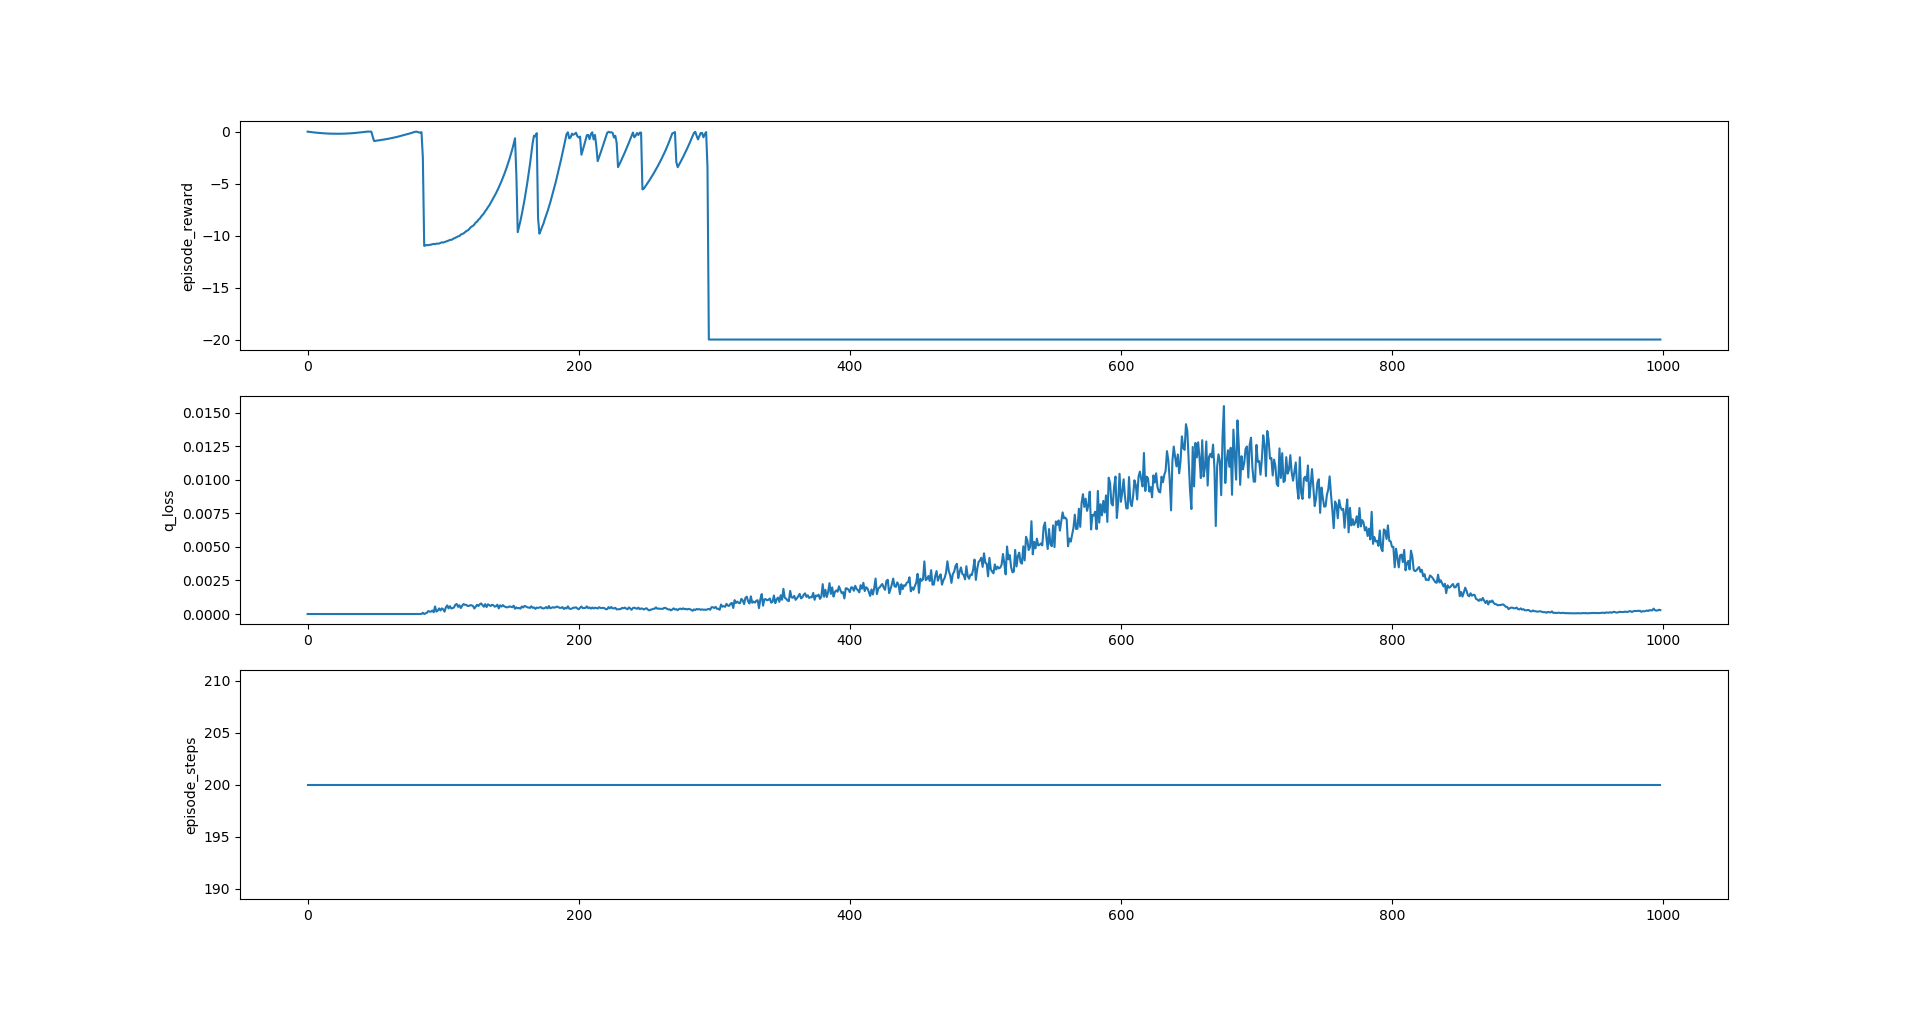
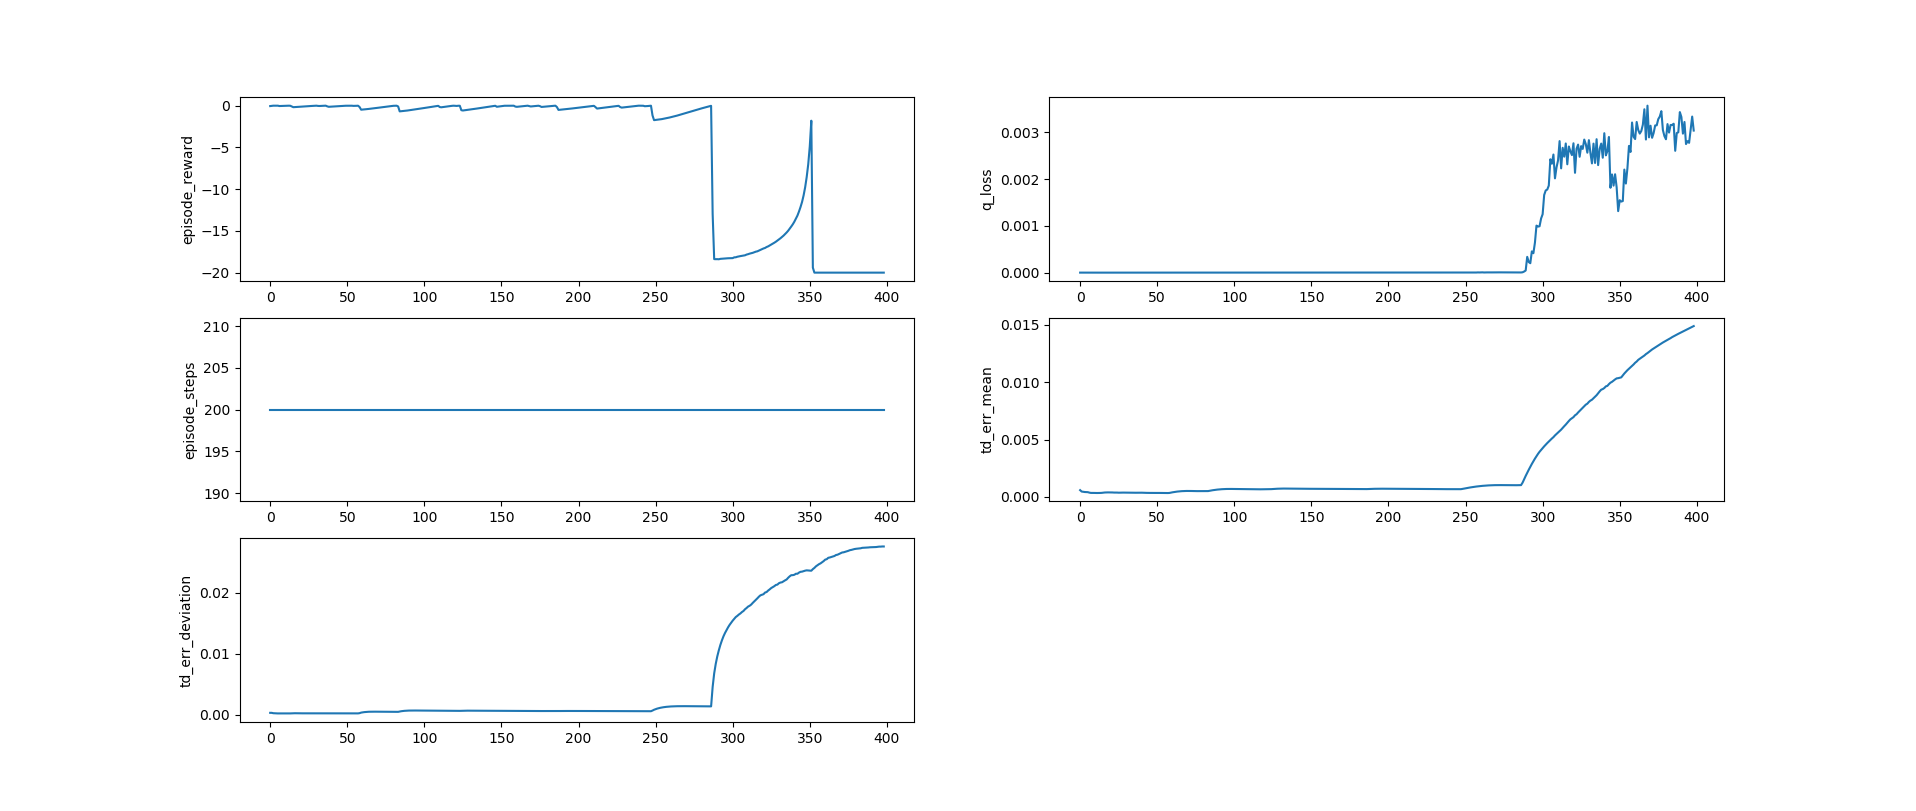
Added visualization of temporal difference error in the ReplayBuffer

diff --git a/agents/agent.py b/agents/agent.py
@@ -3,7 +3,7 @@ import numpy as np
 
 from agents.q_network import QNetwork
 from agents.policy_gradient import Policy
-from agents.replay_buffer import ReplayBuffer
+from agents.replay_buffer import ReplayBuffer, Experience
 
 class Agent():
 
@@ -18,9 +18,9 @@ class Agent():
         self.gamma = 0.99 # reward discount rate
 
         # Replay memory
-        self.buffer_size = 100000
+        buffer_size = 100000
         self.batch_size = 64
-        self.memory = ReplayBuffer(self.buffer_size, self.batch_size)
+        self.memory = ReplayBuffer(buffer_size)
 
         self.sess.run(tf.global_variables_initializer())
 
@@ -30,12 +30,12 @@ class Agent():
         return state
 
     def step(self, action, reward, next_state, done):
-        # save experience
-        self.memory.add(self.last_state, action, reward, next_state, done)
+        # Save experience
+        self._save_experience(self.last_state, action, reward, next_state, done)
 
         # Learn, if enough samples are available in memory
         if len(self.memory) > self.batch_size:
-            experiences = self.memory.sample()
+            experiences = self.memory.sample(self.batch_size)
             self._learn_q(experiences)
             self._learn_policy(self.last_state)
 
@@ -70,4 +70,18 @@ class Agent():
 
         # Compute Q targets for current states and train critic model (local)
         Q_targets = rewards + self.gamma * Q_targets_next * (1 - dones)
-        self.q_network.learn(states, actions, Q_targets)
+        td_errs = self.q_network.learn(states, actions, Q_targets)
+
+        self.memory.scrape_stats(self.stats)
+
+    def _save_experience(self, state, action, reward, next_state, done):
+        """Adds experience into ReplayBuffer. As a side effect, also learns q network on this sample."""
+        # Get predicted next-state actions and Q values
+        actions_next = self.actor.act([next_state])
+        Q_target_next = self.q_network.get_q([next_state], actions_next)[0]
+
+        # Compute Q targets for current states and train critic model (local)
+        Q_target = reward + self.gamma * Q_target_next * (1 - done)
+        td_err = self.q_network.learn([state], [action], [Q_target])[0]
+
+        self.memory.add(Experience(state, action, reward, next_state, done), td_err)

diff --git a/agents/replay_buffer.py b/agents/replay_buffer.py
@@ -1,31 +1,44 @@
-import random
-
-from collections import deque, namedtuple
+import numpy as np
+from collections import namedtuple
 
 Experience = namedtuple("Experience", field_names=["state", "action", "reward", "next_state", "done"])
 
 class ReplayBuffer:
     """Fixed-size buffer to store experience tuples."""
 
-    def __init__(self, buffer_size, batch_size):
+    def __init__(self, buffer_size=100000):
         """Initialize a ReplayBuffer object.
         Params
         ======
             buffer_size: maximum size of buffer
-            batch_size: size of each training batch
         """
-        self.memory = deque(maxlen=buffer_size)  # internal memory (deque)
-        self.batch_size = batch_size
+        self._buffer_size = buffer_size
+        self._memory = list()
+        self._td_err = np.empty([0])
 
-    def add(self, state, action, reward, next_state, done):
+    def add(self, exp, td_err):
         """Add a new experience to memory."""
-        e = Experience(state, action, reward, next_state, done)
-        self.memory.append(e)
+        self._memory.append(exp)
+        self._td_err = np.append(self._td_err, td_err)
+        # Remove elements with low td_err
+        if len(self) > self._buffer_size:
+            idx = np.argmin(self._td_err)
+            del self._memory[idx]
+            self._td_err = np.delete(self._td_err, idx)
+            assert len(self._memory) == len(self._td_err)
 
     def sample(self, batch_size=64):
         """Randomly sample a batch of experiences from memory."""
-        return random.sample(self.memory, k=self.batch_size)
+        # TODO: add probablitities
+        # Important: there are negative td_err => np.abs(td_err)
+        idx = np.random.choice(len(self), batch_size, replace=False)
+        return [self._memory[i] for i in idx]
 
     def __len__(self):
         """Return the current size of internal memory."""
-        return len(self.memory)
+        return len(self._memory)
+
+    def scrape_stats(self, stat):
+        td_err = np.absolute(self._td_err)
+        stat.scalar('td_err_mean', np.mean(td_err))
+        stat.scalar('td_err_deviation', np.std(td_err))

diff --git a/agents/replay_buffer_test.py b/agents/replay_buffer_test.py
@@ -1,0 +1,41 @@
+import unittest
+import numpy as np
+
+from replay_buffer import ReplayBuffer, Experience
+
+class ReplayBufferTest(unittest.TestCase):
+
+    def test_add(self):
+        buf = ReplayBuffer(2)
+        buf.add(Experience(0, 0, 0, 0, False), 0.5)
+        buf.add(Experience(1, 0, 0, 0, False), 0.2)
+        buf.add(Experience(3, 0, 0, 0, False), 0.1)
+
+        self.assertEqual(len(buf), 2)
+        # Check that the state with td_err 0.1 wasn't added to the ReplayBuffer
+        for exp in buf.sample(2):
+            self.assertTrue(exp.state != 3)
+
+    def test_sample(self):
+        buf = ReplayBuffer(3)
+        buf.add(Experience(0, 0, 0, 0, False), 9.0)
+        buf.add(Experience(1, 0, 0, 0, False), 1.0)
+        buf.add(Experience(2, 0, 0, 0, False), 0.0)
+
+        counter = {}
+        for _ in range(10000):
+            for exp in buf.sample(2):
+                if exp.state not in counter:
+                    counter[exp.state] = 0
+                counter[exp.state] += 1
+
+        for key, counts in counter.items():
+            counter[key] = counts / 10000
+
+        print(counter)
+        np.testing.assert_approx_equal(counter[0], 0.9, significant=2)
+        np.testing.assert_approx_equal(counter[1], 0.1, significant=2)
+        np.testing.assert_approx_equal(counter[2], 0.0, significant=2)
+
+if __name__ == '__main__':
+    unittest.main()

diff --git a/test.py b/test.py
@@ -74,7 +74,7 @@ with tf.Session() as sess:
                 done = True
 
         if i_episode % save_model_every == 0:
-            saver.save(sess, "./model-{}.ckpt".format(step))
+            saver.save(sess, "./model-{}.ckpt".format(i_episode))
             plt.savefig("./graphs.png")
 
         stat.scalar('episode_reward', total_score)
@@ -85,17 +85,25 @@ with tf.Session() as sess:
 
         plt.clf()
 
-        plt.subplot(311)
+        plt.subplot(321)
         plt.plot(stat.get_history('episode_reward'))
         plt.ylabel('episode_reward')
 
-        plt.subplot(312)
+        plt.subplot(322)
         plt.plot(stat.get_history('q_loss'))
         plt.ylabel('q_loss')
 
-        plt.subplot(313)
+        plt.subplot(323)
         plt.plot(stat.get_history('episode_steps'))
         plt.ylabel('episode_steps')
+
+        plt.subplot(324)
+        plt.plot(stat.get_history('td_err_mean'))
+        plt.ylabel('td_err_mean')
+
+        plt.subplot(325)
+        plt.plot(stat.get_history('td_err_deviation'))
+        plt.ylabel('td_err_deviation')
 
         plt.pause(0.05)
 

diff --git a/agents/q_network.py b/agents/q_network.py
@@ -36,17 +36,19 @@ class QNetwork():
         self.q = tf.layers.dense(x, 1)
 
         self.q_target = tf.placeholder(tf.float32, shape=(None, 1), name='q_target')
+        self.td_err = self.q_target - self.q
         self.q_loss = tf.losses.mean_squared_error(self.q_target, self.q)
 
         self.train_op = tf.train.GradientDescentOptimizer(0.001).minimize(self.q_loss)
 
     def learn(self, states, actions, q_targets):
-        _, q_loss = self.sess.run([self.train_op, self.q_loss], {
+        _, q_loss, td_errs = self.sess.run([self.train_op, self.q_loss, self.td_err], {
             self.state: states,
             self.action: actions,
             self.q_target: q_targets,
         })
         self.stat_collector.scalar('q_loss', q_loss)
+        return td_errs
 
     def get_q(self, states, actions):
         return self.sess.run(self.q, {

diff --git a/README.md b/README.md
@@ -13,7 +13,7 @@ Current version has simplified task - learn `MountainCarContinuous-v0` task from
 
 ## Metrics
 
-(./graphs.png)
+![Metrics](./graphs.png)
 
 ## Project Instructions
 
